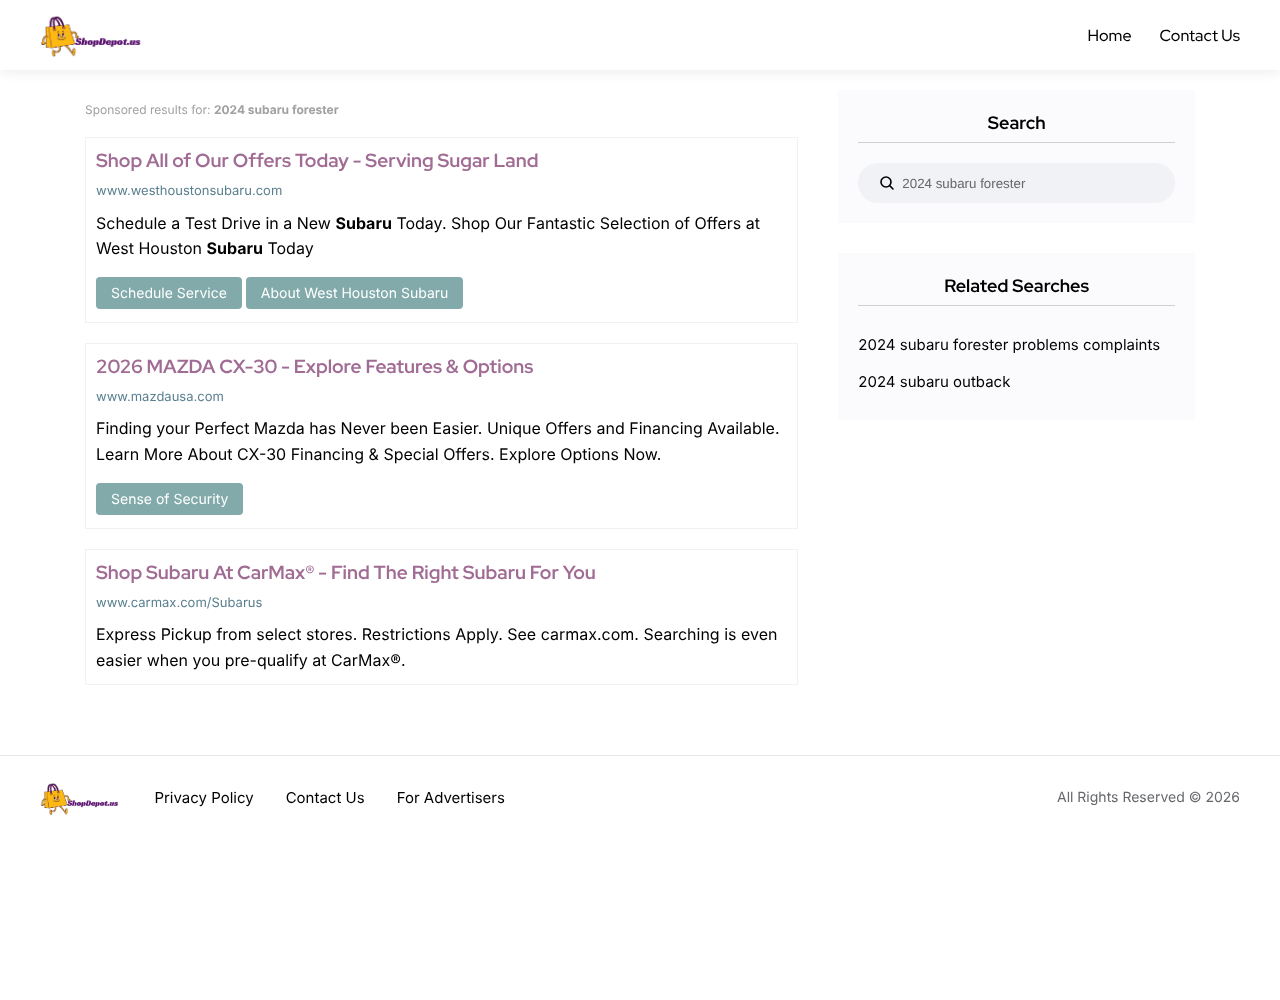
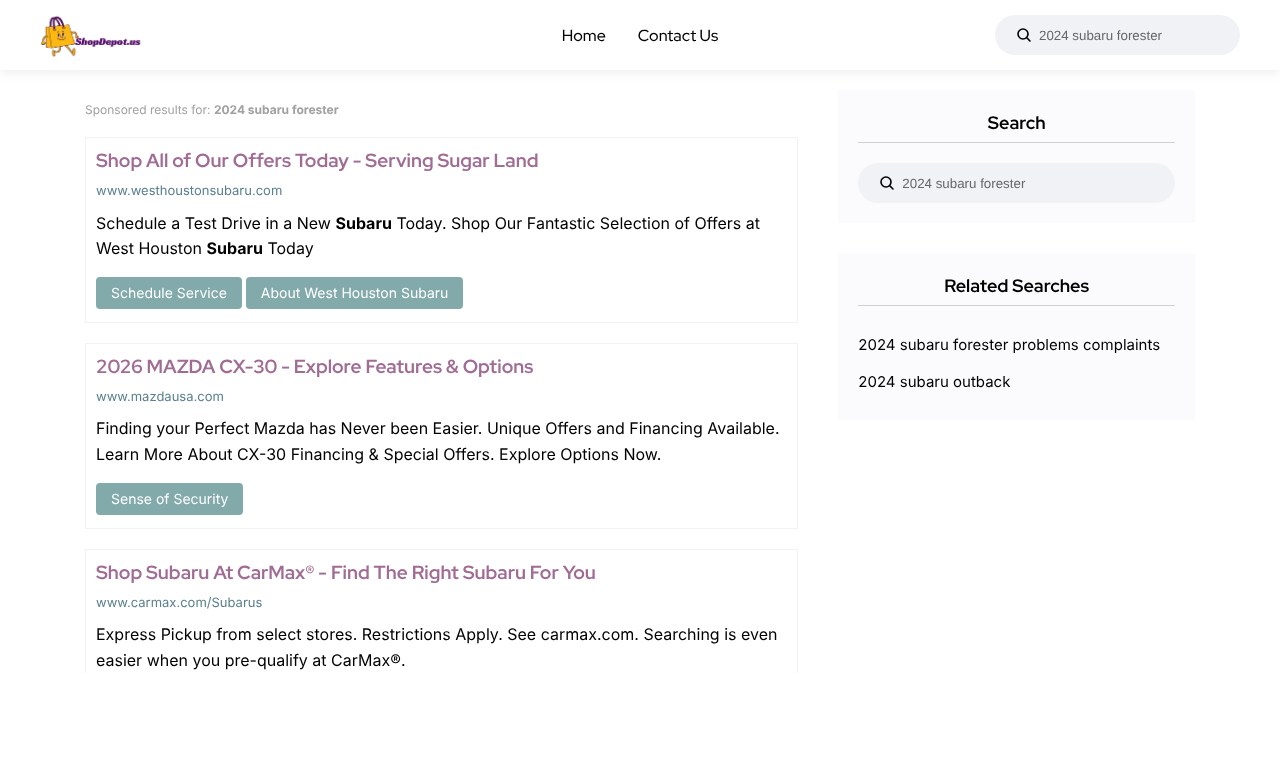
ShopDepot: header with centred Home/Contact and right-hand search; hide empty Related Searches
Claude-Session: https://claude.ai/code/session_01AvNJdHGfXhXRJZm9VzpETS

diff --git a/shopdepot/src/App.jsx b/shopdepot/src/App.jsx
@@ -65,22 +65,29 @@ function Ad({ ad }) {
 
 const resultsUrl = (q, subid) => `/results?q=${encodeURIComponent(q)}${subid ? `&subid=${encodeURIComponent(subid)}` : ''}`;
 
+// Small pill search used in the header and the sidebar; submitting reloads /results with a new q.
+function SearchBox({ q = '', subid, id }) {
+  return (
+    <form action="/results" method="get" role="search">
+      <div className="axil-search">
+        <button type="submit" className="search-button" aria-label="Search"><SearchIcon /></button>
+        <input
+          type="search" name="q" id={id} className="form-control" placeholder="Search" defaultValue={q}
+          aria-label="Search" enterKeyHint="search" autoComplete="off" autoCapitalize="none" required
+        />
+        {subid ? <input type="hidden" name="subid" value={subid} /> : null}
+      </div>
+    </form>
+  );
+}
+
 // Right column (desktop only): search again + related searches. Both reload /results with a new q.
 function Sidebar({ data }) {
   return (
     <aside id="rside">
       <div className="widget widget_search">
         <h5 className="widget-title">Search</h5>
-        <form action="/results" method="get" role="search">
-          <div className="axil-search">
-            <button type="submit" className="search-button" aria-label="Search"><SearchIcon /></button>
-            <input
-              type="search" name="q" className="form-control" placeholder="Search" defaultValue={data.q}
-              aria-label="Search" enterKeyHint="search" autoComplete="off" autoCapitalize="none" required
-            />
-            {data.subid ? <input type="hidden" name="subid" value={data.subid} /> : null}
-          </div>
-        </form>
+        <SearchBox q={data.q} subid={data.subid} />
       </div>
       {data.suggestions?.length > 0 && (
         <div className="widget widget_postlist">
@@ -134,11 +141,14 @@ export default function App({ data }) {
     <>
       <header className="top">
         <div className="top-inner">
-          <a href="/"><img className="logo" src={LOGO} alt="ShopDepot" /></a>
+          <a className="top-logo" href="/"><img className="logo" src={LOGO} alt="ShopDepot" /></a>
           <nav className="topnav">
-            <a href="/">Home</a>
+            <a href={data.rootUrl || '/'}>Home</a>
             <a href={LINKS[1][1]} target="_blank" rel="noopener noreferrer">Contact Us</a>
           </nav>
+          <div className="header-search">
+            <SearchBox q={data.q} subid={data.subid} />
+          </div>
         </div>
       </header>
       <div id="mainsection">

diff --git a/shopdepot/server/index.js b/shopdepot/server/index.js
@@ -14,6 +14,7 @@ const cfg = {
   numAds: Number(process.env.NUM_ADS || 3),
   serveUrl: process.env.SERVE_URL || 'https://marketplace.shopdepot.us/results',
   sourceTag: process.env.SOURCE_TAG || 'mediawave_n2s_xmlb_11649_fb_shopdepot',
+  rootUrl: process.env.ROOT_URL || 'https://shopdepot.us/',
   port: Number(process.env.PORT || 3000),
   debugRaw: process.env.DEBUG_RAW === '1',
 };
@@ -67,7 +68,7 @@ app.use('/assets', express.static(path.join(DIST, 'assets'), { immutable: true, 
 
 app.use(express.static(DIST, { index: false, maxAge: '1d' }));
 
-app.get('/', (_req, res) => render(res, { data: { page: 'home' } }));
+app.get('/', (_req, res) => render(res, { data: { page: 'home', rootUrl: cfg.rootUrl } }));
 
 app.get('/results', async (req, res) => {
   const q = String(req.query.q || '').trim().slice(0, 200);
@@ -85,7 +86,7 @@ app.get('/results', async (req, res) => {
   }
   // Beacons go at the very top of <head>, before any other script.
   const head = result.tokens.searchId ? beaconHtml(result.tokens, cfg.sourceTag) : '';
-  render(res, { head, data: { page: 'results', q, subid, ads: result.ads, suggestions: result.suggestions, error } });
+  render(res, { head, data: { page: 'results', rootUrl: cfg.rootUrl, q, subid, ads: result.ads, suggestions: result.suggestions, error } });
 });
 
 app.get('*', (_req, res) => res.redirect(302, '/'));

diff --git a/shopdepot/src/styles.css b/shopdepot/src/styles.css
@@ -13,7 +13,7 @@ a { color: inherit; }
 /* White header with the logo centred, as on the reference lander */
 .top { background: #fff; padding: 10px 16px; }
 .top-inner { display: flex; align-items: center; justify-content: center; }
-.topnav { display: none; }
+.topnav, .header-search { display: none; }
 .logo { height: 56px; width: auto; display: inline-block; vertical-align: middle; }
 
 /* Dark body: solid → purple gradient toward the bottom */
@@ -77,9 +77,12 @@ main { flex: 1; width: 100%; max-width: 720px; margin: 0 auto; padding: 16px max
   body { background: #fff; color: #000; }
 
   .top { padding: 0 30px; box-shadow: 0 2px 12px rgba(0, 0, 0, 0.08); position: relative; z-index: 2; }
-  .top-inner { max-width: 1200px; margin: 0 auto; justify-content: space-between; padding: 12px 0; }
+  .top-inner { max-width: 1200px; margin: 0 auto; display: grid; grid-template-columns: 1fr auto 1fr; align-items: center; padding: 12px 0; }
+  .top-logo { justify-self: start; }
+  .header-search { display: block; justify-self: end; }
+  .header-search .axil-search { width: 245px; }
   .logo { height: 46px; }
-  .topnav { display: flex; gap: 28px; }
+  .topnav { display: flex; gap: 32px; justify-content: center; }
   .topnav a { color: #000; text-decoration: none; font: 500 16px var(--display); }
   .topnav a:hover { color: var(--primary); }
 

diff --git a/shopdepot/server/xml.test.js b/shopdepot/server/xml.test.js
@@ -75,3 +75,9 @@ test('subaru sample: sitelinks parsed per ad (desktop only UI)', () => {
   assert.equal(ads[1].siteLinks.length, 1);
   assert.equal(ads[2].siteLinks.length, 0);
 });
+
+test('no suggestions in the response -> empty list (UI hides the box)', () => {
+  const x = '<Results><ResultSet><Listing ImpressionId="1" title="t" description="d"><ClickUrl>https://c</ClickUrl></Listing></ResultSet></Results>';
+  assert.deepEqual(parseListings(x).suggestions, []);
+  assert.deepEqual(parseListings('<Suggestion><name> </name></Suggestion>').suggestions, []);
+});

diff --git a/shopdepot/server/xml.js b/shopdepot/server/xml.js
@@ -104,7 +104,7 @@ export function parseListings(xml) {
 
   const suggestions = [];
   const sug = xml.match(/<Suggestion>([\s\S]*?)<\/Suggestion>/i);
-  if (sug) for (const n of sug[1].matchAll(/<name>([^<]*)<\/name>/gi)) suggestions.push(decodeEntities(n[1].trim()));
+  if (sug) for (const n of sug[1].matchAll(/<name>([^<]*)<\/name>/gi)) { const t = decodeEntities(n[1].trim()); if (t) suggestions.push(t); }
 
   return { tokens, ads, suggestions };
 }

diff --git a/shopdepot/README.md b/shopdepot/README.md
@@ -30,9 +30,9 @@ Follows the partner's reference lander, which switches theme at 1000px:
 - **Mobile (≤1000px) – dark theme** (best CTR): white header with a centred logo, dark body fading to purple, a
   "Sponsored results for: …" label, and ads as plain text blocks with a full-width teal **SEE IT** button. No sidebar,
   no sitelinks.
-- **Desktop (>1000px) – light theme**: header with logo + Home / Contact Us, two columns. Left: ad cards (mauve title,
+- **Desktop (>1000px) – light theme**: header with the logo on the left, **Home** and **Contact Us** in the middle (plain external links: Home goes to `ROOT_URL`, Contact Us to the partner's contact page) and a search box on the right; then two columns. Left: ad cards (mauve title,
   teal-grey host, black description, sitelink buttons). Right sidebar: **Search** (submits to `/results`, reloading the page
-  with the new `q` and updated URL) and **Related Searches** (links to `/results?q=<suggestion>`), both keeping `subid`.
+  with the new `q` and updated URL) and **Related Searches** (links to `/results?q=<suggestion>`), both keeping `subid`. Related Searches comes from the response's `Suggestion` names; when there are none, the whole box is omitted. The header search does the same as the sidebar one.
   Footer with logo, the partner links and "All Rights Reserved © year".
 
 Each ad mirrors the reference markup (`li.yahoo > section.listingsection`) and carries `data-yiid`, `data-appns`,
